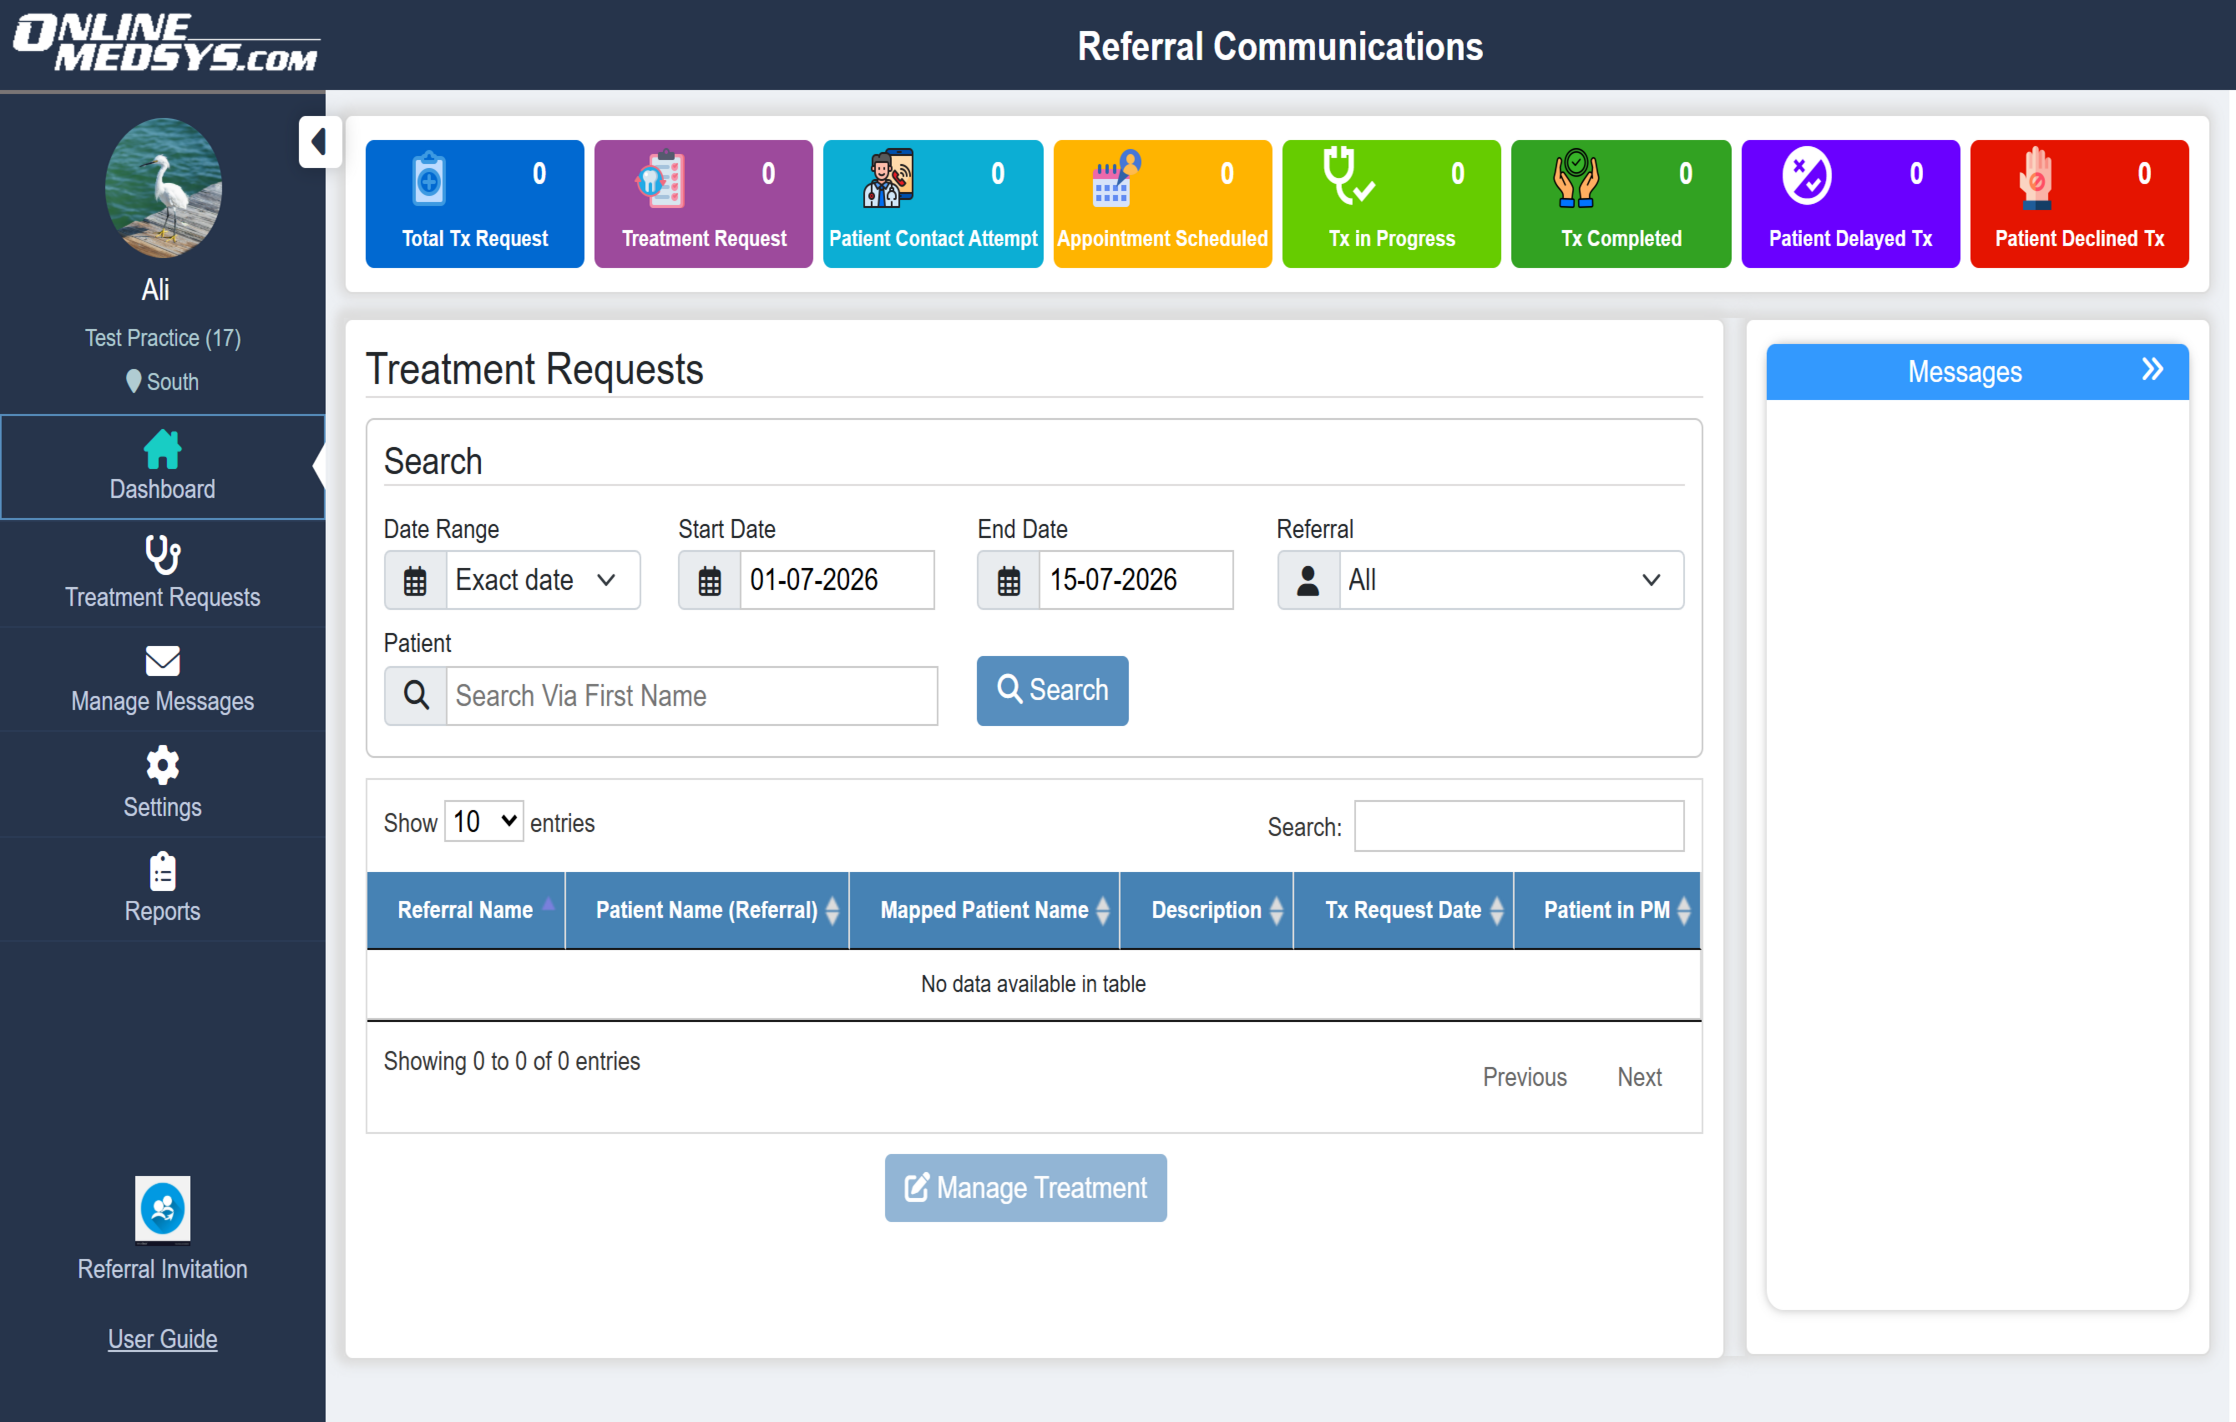
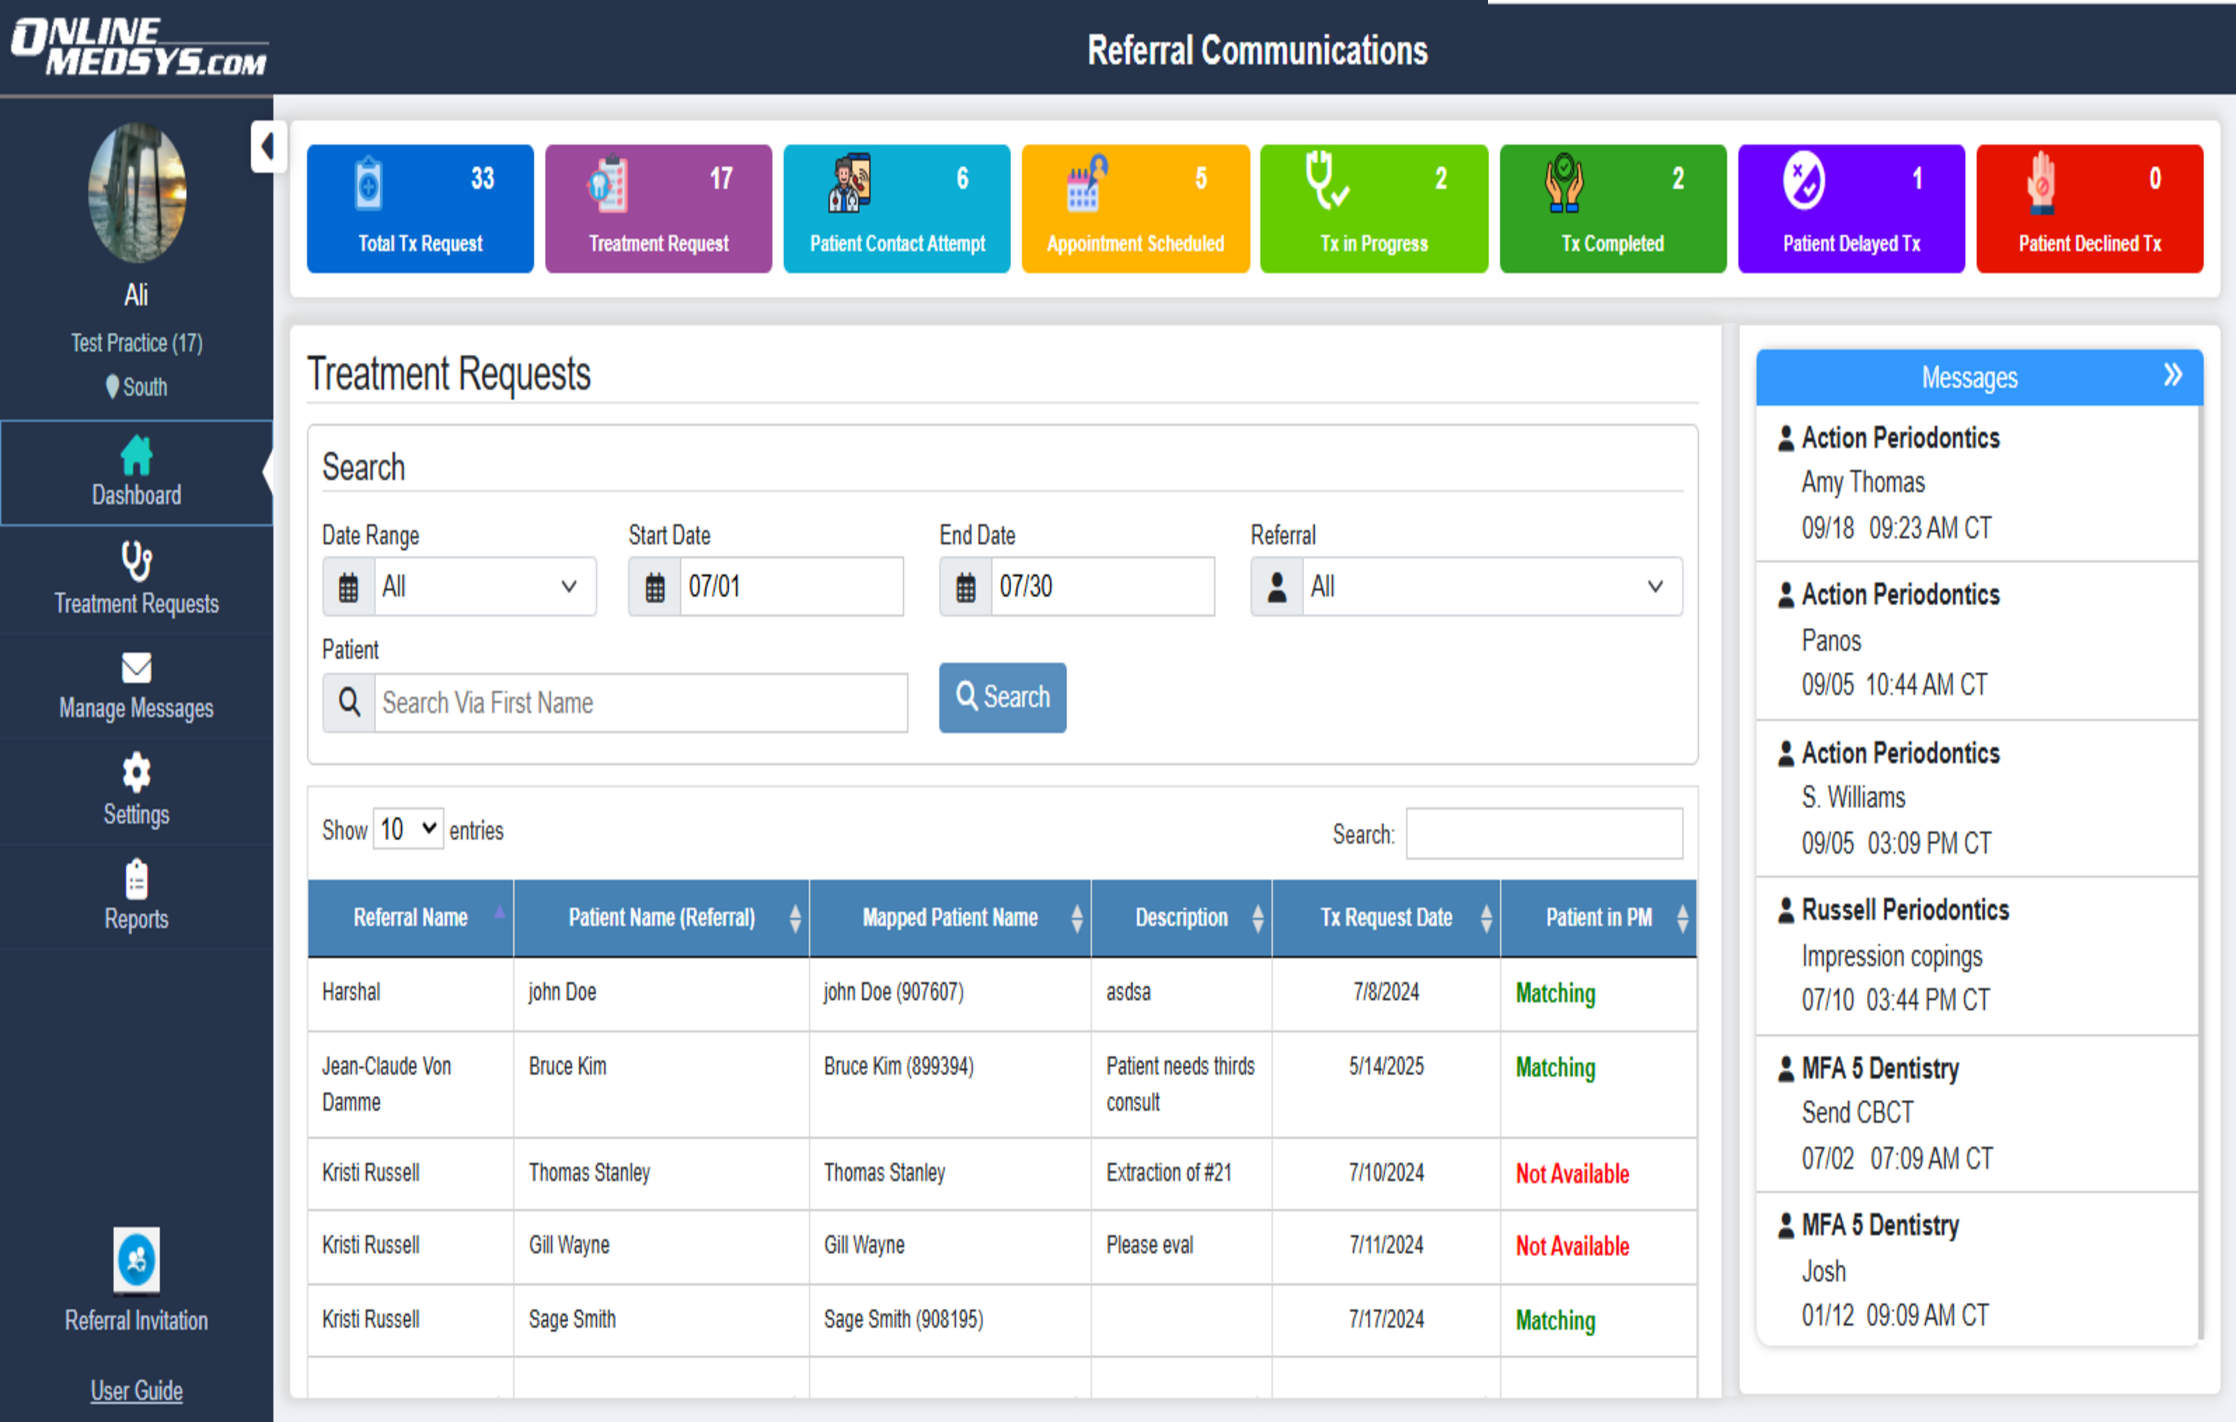
new chnages

diff --git a/src/components/Hero.tsx b/src/components/Hero.tsx
@@ -58,18 +58,21 @@ const Hero = () => {
                 {/* Background Image with Overlay */}
                 <div className="absolute inset-0 z-0">
                   <img src={slide.image} alt={slide.title} className="w-full h-full object-cover" loading="eager" decoding="async" />
-                  {index !== 0 && <div className="absolute inset-0 bg-gradient-to-r from-background/85 via-background/50 to-transparent" />}
+                  <div className="absolute inset-0 bg-gradient-to-r from-background/85 via-background/50 to-transparent" />
                 </div>
 
                 {/* Content */}
-                <div className="container mx-auto px-4 sm:px-6 lg:px-8 relative z-10">
-                  <div className={`max-w-3xl ${index === 0 ? "-mt-20 sm:-mt-24 lg:-mt-60" : ""}`}>
+                <div
+                  className="container mx-auto px-4 sm:px-6 lg:px-8 relative z-10"
+                  style={index === 0 ? { transform: "translateY(-1.5in)" } : undefined}
+                >
+                  <div className="max-w-4xl">
                     <h1
                       className={
                         "font-bold mb-6 animate-fade-in text-foreground break-words" +
                           (slide.title === "Advanced Oral Surgery with Clinical Excellence" ? " mt-0 sm:mt-0" : "")
                       }
-                      style={{ fontSize: '50px', lineHeight: '1', marginTop: index === 0 ? '-48px' : undefined }}
+                      style={{ fontSize: '50px', lineHeight: '1.3' }}
                     >
                       {index === 0 ? (
                         <>
@@ -94,17 +97,16 @@ const Hero = () => {
                       )}
                     </h1>
 
-                    <p style={{ position: 'absolute', top: '90px' }}
+                    <p
                       className={
-                        `text-xl mb-8 leading-relaxed animate-fade-in` +
-                          (slide.title === "Advanced Oral Surgery with Clinical Excellence" ? " mt-16 sm:mt-24 mb-0 sm:mb-0 -mt-4" : "") +
-                          (index === 0 ? " mt-12 sm:mt-16 lg:mt-10" : "")
+                        `text-xl text-foreground mb-8 leading-relaxed animate-fade-in` +
+                          (slide.title === "Advanced Oral Surgery with Clinical Excellence" ? " mt-16 sm:mt-24 mb-0 sm:mb-0 -mt-4" : "")
                       }
                     >
                       {index === 0 ? (
                         <>
-                          <span className="block text-black">Our cloud-based technology delivers powerful solutions –</span>
-                          <span className="block text-black">providing the practice management tools necessary for your success.</span>
+                          <span className="block">Our cloud-based technology delivers powerful solutions –</span>
+                          <span className="block">providing the practice management tools necessary for your success.</span>
                         </>
                       ) : (
                         slide.description

diff --git a/src/components/HealthcareFeatures.tsx b/src/components/HealthcareFeatures.tsx
@@ -242,7 +242,7 @@ const HealthcareFeatures = () => {
   }, {
     image: revenueCycleImage,
     title: "Revenue Cycle Management",
-    description: "Maximize your practice's financial performance with our intelligent billing and revenue cycle management solution. Medical & dental claim submission, line item posting and denial management, strengthen your billing processes. Our analytics dashboard provides insights into financial performance, helping you identify opportunities for revenue optimization."
+    description: "Maximize your practice's financial performance with our intelligent billing and revenue cycle management solution. Medical & dental claim submission, line item posting and denial management strengthen your billing processes. Our analytics dashboard provides insights into financial performance, helping you identify opportunities for revenue optimization."
   }, {
     image: emrImage,
     title: "Electronic Medical Records",
@@ -327,7 +327,7 @@ const HealthcareFeatures = () => {
                     borderWidth={isThickBorder ? 15 : 1}
                     borderColor={isThickBorder ? '#000' : '#D2DEF9'}
                     imageFit="fill"
-                    zoomControls={feature.title === 'Practice Management Solutions'}
+                    zoomControls={false}
                   />
                 </div>
 

diff --git a/src/pages/ProductsServices.tsx b/src/pages/ProductsServices.tsx
@@ -41,7 +41,7 @@ const ProductsServices = () => {
       icon: FileText,
       title: "Consent Forms",
       id: "consent-forms",
-      description: "Digital consent management system ensuring secure, compliant documentation for all Oral surgery procedures and treatments."
+      description: "Digital consent management system ensuring secure, compliant documentation for all oral surgery procedures and treatments."
     },
     {
       icon: Share2,
@@ -59,7 +59,7 @@ const ProductsServices = () => {
       icon: Scan,
       title: "Scan Application",
       id: "scan-application",
-      description: "Advanced Document management solutions with integrated AI analysis for Preserving EOB and Payment records."
+      description: "Advanced document management solutions with integrated AI analysis for preserving EOB and payment records."
     },
     {
       icon: ShieldCheck,

diff --git a/src/components/Services.tsx b/src/components/Services.tsx
@@ -26,7 +26,7 @@ const Services = () => {
     {
       icon: FileText,
       title: "Consent Forms",
-      description: "Digital consent management system ensuring secure, compliant documentation for all Oral surgery procedures and treatments."
+      description: "Digital consent management system ensuring secure, compliant documentation for all oral surgery procedures and treatments."
     },
     {
       icon: Workflow,
@@ -42,7 +42,7 @@ const Services = () => {
     {
       icon: Scan,
       title: "Scan Application",
-      description: "Advanced Document management solutions with integrated AI analysis for Preserving EOB and Payment records."
+      description: "Advanced document management solutions with integrated AI analysis for preserving EOB and payment records."
     },
     {
       icon: Workflow,
